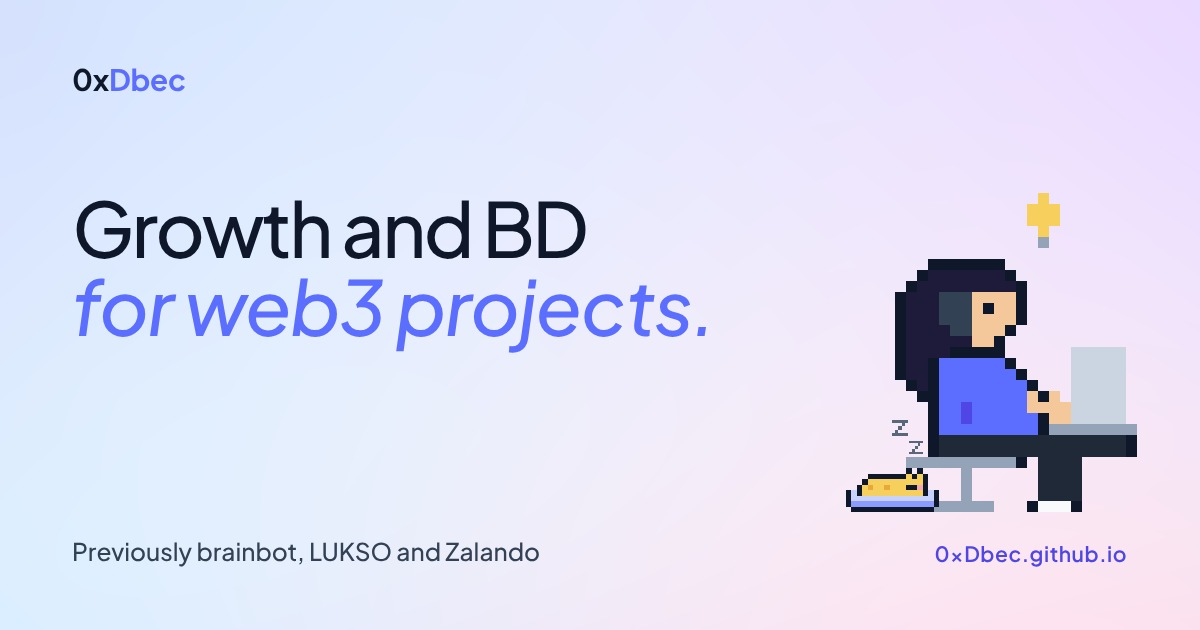
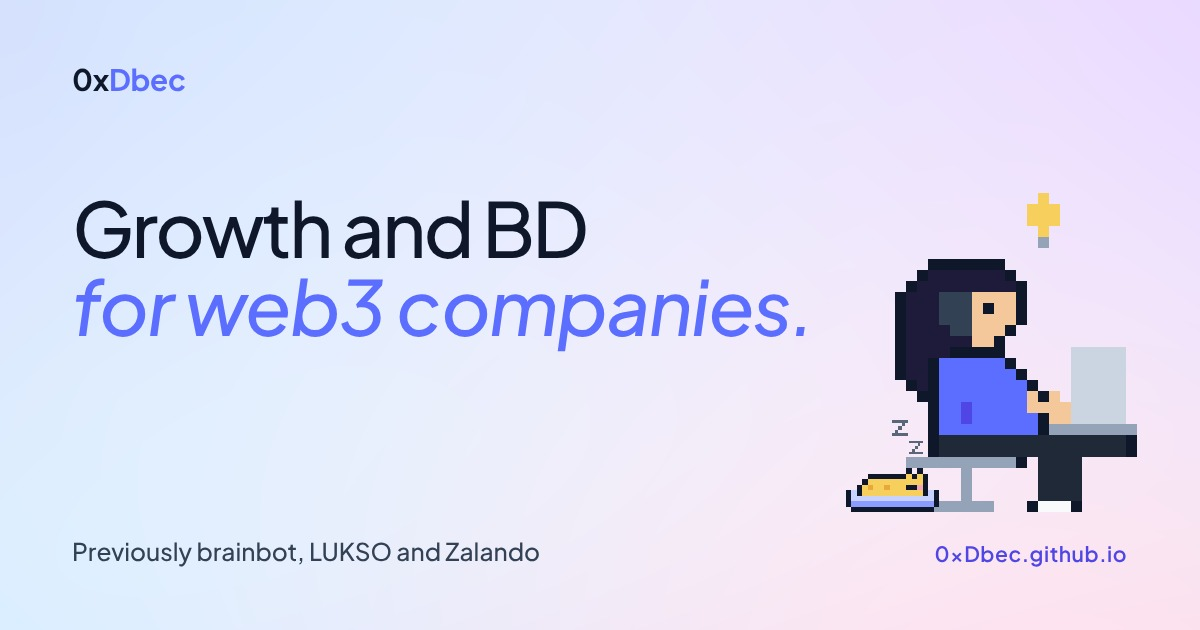
Headline: web3 companies
Claude-Session: https://claude.ai/code/session_019fEgzCm8UmHBQQ6xzo2ziH

Changed region(s): [[0.3083, 0.4524, 0.6783, 0.573]]

diff --git a/index.html b/index.html
@@ -3,8 +3,8 @@
 <head>
 <meta charset="UTF-8">
 <meta name="viewport" content="width=device-width, initial-scale=1.0">
-<title>0xDbec · Growth and BD for web3 projects</title>
-<meta name="description" content="Growth and BD for web3 projects, from pre-launch to scale. Previously brainbot (Raiden, Beamer Bridge), LUKSO and Zalando.">
+<title>0xDbec · Growth and BD for web3 companies</title>
+<meta name="description" content="Growth and BD for web3 companies, from pre-launch to scale. Previously brainbot (Raiden, Beamer Bridge), LUKSO and Zalando.">
 <meta name="robots" content="index, follow, max-image-preview:large">
 <link rel="canonical" href="https://0xdbec.github.io/">
 <meta name="theme-color" content="#F4F7FF">
@@ -17,23 +17,23 @@
 <meta property="og:type" content="website">
 <meta property="og:site_name" content="0xDbec">
 <meta property="og:url" content="https://0xdbec.github.io/">
-<meta property="og:title" content="0xDbec · Growth and BD for web3 projects">
-<meta property="og:description" content="Growth and BD for web3 projects, from pre-launch to scale. Previously brainbot (Raiden, Beamer Bridge), LUKSO and Zalando.">
+<meta property="og:title" content="0xDbec · Growth and BD for web3 companies">
+<meta property="og:description" content="Growth and BD for web3 companies, from pre-launch to scale. Previously brainbot (Raiden, Beamer Bridge), LUKSO and Zalando.">
 <meta property="og:image" content="https://0xdbec.github.io/og-image.jpg">
 <meta property="og:image:type" content="image/jpeg">
 <meta property="og:image:width" content="1200">
 <meta property="og:image:height" content="630">
-<meta property="og:image:alt" content="Pixel-art character typing at a laptop with a cat asleep in its bed, beside the headline Growth and BD for web3 projects.">
+<meta property="og:image:alt" content="Pixel-art character typing at a laptop with a cat asleep in its bed, beside the headline Growth and BD for web3 companies.">
 <meta property="og:locale" content="en_US">
 <meta name="twitter:card" content="summary_large_image">
 <meta name="twitter:site" content="@0xDbec">
 <meta name="twitter:creator" content="@0xDbec">
-<meta name="twitter:title" content="0xDbec · Growth and BD for web3 projects">
-<meta name="twitter:description" content="Growth and BD for web3 projects, from pre-launch to scale. Previously brainbot (Raiden, Beamer Bridge), LUKSO and Zalando.">
+<meta name="twitter:title" content="0xDbec · Growth and BD for web3 companies">
+<meta name="twitter:description" content="Growth and BD for web3 companies, from pre-launch to scale. Previously brainbot (Raiden, Beamer Bridge), LUKSO and Zalando.">
 <meta name="twitter:image" content="https://0xdbec.github.io/og-image.jpg">
-<meta name="twitter:image:alt" content="Pixel-art character typing at a laptop with a cat asleep in its bed, beside the headline Growth and BD for web3 projects.">
+<meta name="twitter:image:alt" content="Pixel-art character typing at a laptop with a cat asleep in its bed, beside the headline Growth and BD for web3 companies.">
 
-<script type="application/ld+json">{"@context":"https://schema.org","@type":"WebSite","name":"0xDbec","url":"https://0xdbec.github.io/","description":"Growth and BD for web3 projects, from pre-launch to scale. Previously brainbot (Raiden, Beamer Bridge), LUKSO and Zalando."}</script>
+<script type="application/ld+json">{"@context":"https://schema.org","@type":"WebSite","name":"0xDbec","url":"https://0xdbec.github.io/","description":"Growth and BD for web3 companies, from pre-launch to scale. Previously brainbot (Raiden, Beamer Bridge), LUKSO and Zalando."}</script>
 
 <link rel="preload" href="fonts/plus-jakarta-sans-latin-500-normal.woff2" as="font" type="font/woff2" crossorigin>
 <link rel="preload" href="fonts/plus-jakarta-sans-latin-400-normal.woff2" as="font" type="font/woff2" crossorigin>
@@ -1466,7 +1466,7 @@ body::before { inset: 0; }
 <div class="container" id="top">
 
   <section class="hero">
-    <h1>Growth and BD <span class="accent">for web3&nbsp;projects.</span></h1>
+    <h1>Growth and BD <span class="accent">for web3&nbsp;companies.</span></h1>
     <p class="subtitle">Leading growth from pre-launch to scale. Previously brainbot (Raiden Network, Beamer Bridge) and LUKSO. Started in enterprise sales at Zalando.</p>
     <div class="hero-langs"><span class="small-label">Languages</span><span class="langs">English, French, German</span></div>
     <div class="cta">
